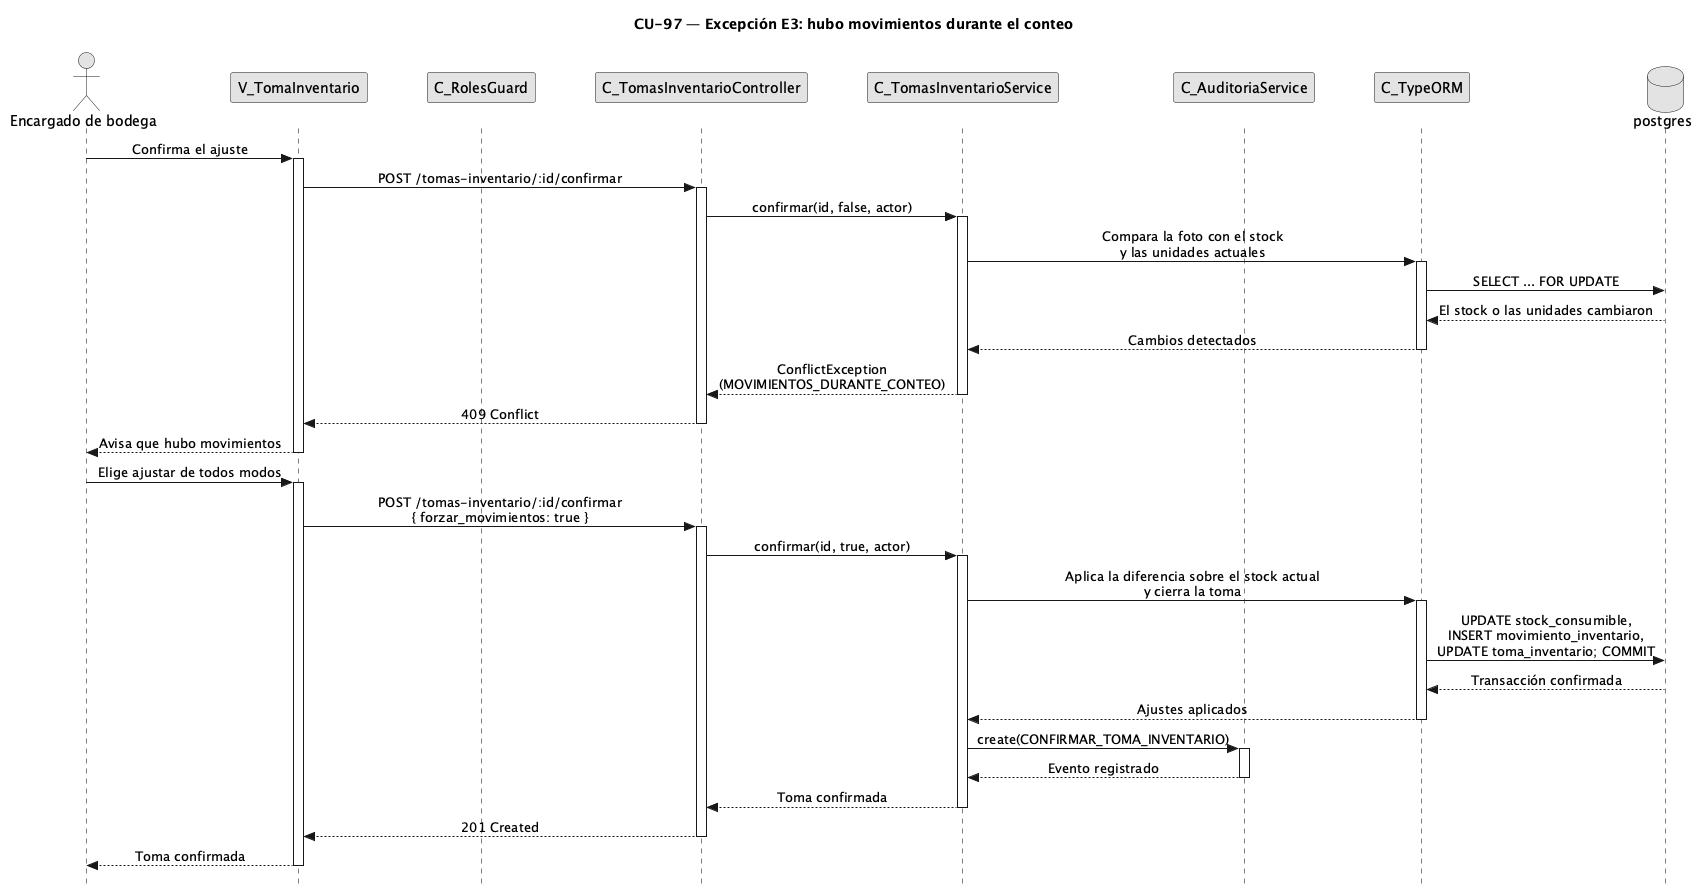
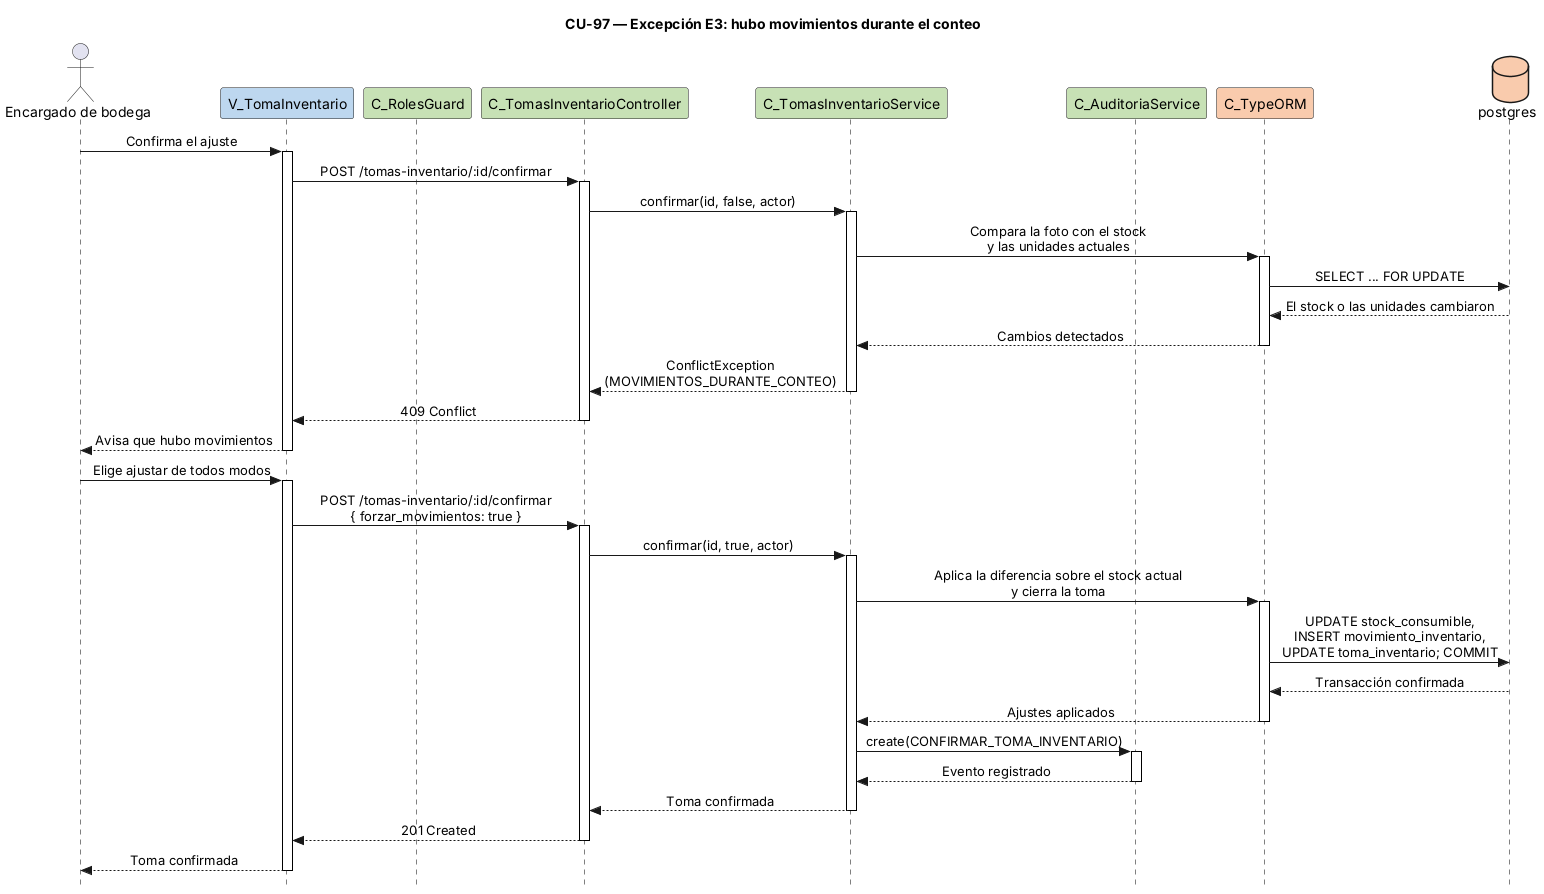
feat(CU-99): acta PDF de la toma de inventario

diff --git a/codigo/backend-inventario/src/tomas-inventario/tomas-inventario.service.ts b/codigo/backend-inventario/src/tomas-inventario/tomas-inventario.service.ts
@@ -11,6 +11,13 @@ import { StockConsumible } from '../bodegas/entities/stock-consumible.entity';
 import { TipoEquipo } from '../inventario/entities/tipo-equipo.entity';
 import { UnidadEquipo } from '../inventario/entities/unidad-equipo.entity';
 import { MovimientoInventario } from '../transferencias/entities/movimiento-inventario.entity';
+import { Usuario } from '../usuarios/entities/usuario.entity';
+import { EMPRESAS } from '../companies/companies.service';
+import {
+  ColumnaPdf,
+  construirPdfReporte,
+  fechaLegible,
+} from '../reportes/pdf-reporte';
 import { RegistrarConteoDto } from './dto/registrar-conteo.dto';
 import {
   RESULTADO_COINCIDE,
@@ -29,6 +36,16 @@ import {
 
 export const TIPO_MOVIMIENTO_AJUSTE = 'AJUSTE_INVENTARIO';
 const ESTADO_EN_BODEGA = 'En bodega';
+
+// CU-99: columnas del acta. Primero los consumibles y luego las series.
+const COLUMNAS_ACTA: ColumnaPdf[] = [
+  { titulo: 'Tipo de equipo', campo: 'tipo', peso: 2 },
+  { titulo: 'N° de serie', campo: 'serie', peso: 1.6 },
+  { titulo: 'Esperado', campo: 'esperado', peso: 0.8 },
+  { titulo: 'Contado', campo: 'contado', peso: 0.8 },
+  { titulo: 'Diferencia', campo: 'diferencia', peso: 0.8 },
+  { titulo: 'Resultado', campo: 'resultado', peso: 1.2 },
+];
 
 export interface ActorToma {
   id_usuario: number;
@@ -544,5 +561,80 @@ export class TomasInventarioService {
       valor_nuevo: { estado: TOMA_CANCELADA },
     });
     return this.obtener(id, actor);
+  }
+
+  //CU-99: genera el acta en PDF de una toma confirmada (lo esperado, lo contado y las diferencias)
+  async generarActa(
+    id: number,
+    actor: ActorToma,
+  ): Promise<{ archivo: Buffer; nombre: string }> {
+    const toma = await this.obtener(id, actor);
+    // CU-99 Excepción 1: solo una toma confirmada tiene un resultado definitivo
+    if (toma.estado !== TOMA_CONFIRMADA) {
+      throw new ConflictException(
+        'Solo se puede generar el acta de una toma confirmada.',
+      );
+    }
+
+    const [abrio, cerro] = await Promise.all([
+      this.nombreUsuario(toma.id_usuario_apertura),
+      this.nombreUsuario(toma.id_usuario_cierre),
+    ]);
+    const fecha = new Date();
+    const formato = (n: number | null) =>
+      n === null ? '-' : Number.isInteger(n) ? String(n) : n.toFixed(2);
+    const filas = [...toma.consumibles, ...toma.series].map((l) => ({
+      tipo: l.tipo_equipo_nombre ?? '-',
+      serie: l.numero_serie ?? '(consumible)',
+      esperado: formato(l.cantidad_esperada),
+      contado: formato(l.cantidad_contada),
+      diferencia: formato(l.diferencia),
+      resultado: l.resultado ?? '-',
+    }));
+    const archivo = construirPdfReporte({
+      empresa:
+        EMPRESAS.find((e) => e.id === toma.id_empresa)?.nombre ?? 'Empresa',
+      titulo: `Acta de toma de inventario N° ${toma.id_toma}`,
+      filtros: [
+        { etiqueta: 'Bodega', valor: toma.bodega_nombre ?? '-' },
+        {
+          etiqueta: 'Apertura',
+          valor: fechaLegible(new Date(toma.fecha_apertura)),
+        },
+        {
+          etiqueta: 'Confirmación',
+          valor: toma.fecha_cierre
+            ? fechaLegible(new Date(toma.fecha_cierre))
+            : '-',
+        },
+        { etiqueta: 'Abierta por', valor: abrio },
+        { etiqueta: 'Confirmada por', valor: cerro },
+      ],
+      generadoPor: await this.nombreUsuario(actor.id_usuario),
+      fecha,
+      columnas: COLUMNAS_ACTA,
+      filas,
+    });
+
+    await this.auditoriaService.create({
+      id_usuario: actor.id_usuario,
+      accion: 'GENERAR_ACTA_TOMA_INVENTARIO',
+      entidad_afectada: 'toma_inventario',
+      id_entidad_afectada: id,
+      valor_anterior: null,
+      valor_nuevo: { formato: 'PDF', lineas: filas.length },
+    });
+
+    const p = (n: number) => String(n).padStart(2, '0');
+    const marca = `${fecha.getFullYear()}${p(fecha.getMonth() + 1)}${p(fecha.getDate())}`;
+    return { archivo, nombre: `acta-toma-${toma.id_toma}-${marca}.pdf` };
+  }
+
+  private async nombreUsuario(id: number | null): Promise<string> {
+    if (!id) return '-';
+    const usuario = await this.dataSource.manager
+      .findOne(Usuario, { where: { id_usuario: id } })
+      .catch(() => null);
+    return usuario?.nombre_completo ?? `Usuario ${id}`;
   }
 }

diff --git a/codigo/backend-inventario/src/tomas-inventario/tomas-inventario.service.spec.ts b/codigo/backend-inventario/src/tomas-inventario/tomas-inventario.service.spec.ts
@@ -321,3 +321,52 @@ describe('TomasInventarioService (CU-97)', () => {
     );
   });
 });
+
+describe('TomasInventarioService (CU-99)', () => {
+  const confirmada = {
+    id_toma: 1,
+    id_bodega: 3,
+    id_empresa: 1,
+    estado: 'CONFIRMADA',
+    id_usuario_apertura: 7,
+    id_usuario_cierre: 7,
+    fecha_apertura: new Date('2026-11-09T10:00:00'),
+    fecha_cierre: new Date('2026-11-09T12:00:00'),
+  };
+
+  it('genera el acta en PDF de una toma confirmada y la audita', async () => {
+    const { service, auditoria } = crear({
+      toma: confirmada,
+      detalles: [
+        { ...consumible(10, 8), resultado: 'FALTANTE' },
+        { ...serie('SN-5', 1), resultado: 'COINCIDE' },
+      ],
+    });
+    const { archivo, nombre } = await service.generarActa(1, ACTOR);
+    expect(archivo.toString('latin1').startsWith('%PDF')).toBe(true);
+    expect(archivo.toString('latin1')).toContain('SN-5');
+    expect(nombre).toMatch(/^acta-toma-1-\d{8}\.pdf$/);
+    expect(auditoria.create).toHaveBeenCalledWith(
+      expect.objectContaining({
+        accion: 'GENERAR_ACTA_TOMA_INVENTARIO',
+        id_entidad_afectada: 1,
+        valor_nuevo: { formato: 'PDF', lineas: 2 },
+      }),
+    );
+  });
+
+  it('E1: rechaza el acta de una toma abierta', async () => {
+    const { service, auditoria } = crear();
+    await expect(service.generarActa(1, ACTOR)).rejects.toThrow(
+      ConflictException,
+    );
+    expect(auditoria.create).not.toHaveBeenCalled();
+  });
+
+  it('E2: una toma de otra empresa responde 404', async () => {
+    const { service } = crear({ toma: { ...confirmada, id_empresa: 2 } });
+    await expect(service.generarActa(1, ACTOR)).rejects.toThrow(
+      NotFoundException,
+    );
+  });
+});

diff --git a/codigo/frontend/src/routes/tomas-inventario/[id]/+page.svelte b/codigo/frontend/src/routes/tomas-inventario/[id]/+page.svelte
@@ -5,6 +5,7 @@
 	import {
 		cancelarTomaInventario,
 		confirmarTomaInventario,
+		descargarActaToma,
 		esMovimientosDuranteConteo,
 		obtenerTomaInventario,
 		registrarConteoToma
@@ -14,7 +15,7 @@
 	import Button from '$lib/components/Button.svelte';
 	import ConfirmDialog from '$lib/components/ConfirmDialog.svelte';
 	import EmptyState from '$lib/components/EmptyState.svelte';
-	import { ArrowLeft, Save } from '@lucide/svelte';
+	import { ArrowLeft, FileDown, Save } from '@lucide/svelte';
 
 	// CU-97: registro del conteo, revisión de diferencias y confirmación del ajuste
 	let toma = $state<TomaInventario | null>(null);
@@ -135,6 +136,21 @@
 		}
 	}
 
+	// CU-99: acta PDF de la toma confirmada
+	let descargandoActa = $state(false);
+	async function descargarActa() {
+		if (!toma) return;
+		error = '';
+		descargandoActa = true;
+		try {
+			await descargarActaToma(toma.id_toma);
+		} catch (err: unknown) {
+			error = err instanceof Error ? err.message : 'No se pudo generar el acta';
+		} finally {
+			descargandoActa = false;
+		}
+	}
+
 	function textoDiferencia(linea: TomaInventarioLinea): string {
 		if (linea.diferencia === null) return '—';
 		return linea.diferencia > 0 ? `+${linea.diferencia}` : String(linea.diferencia);
@@ -176,6 +192,11 @@
 						</Button>
 						<Button loading={saving} onclick={pedirConfirmacion}>Confirmar y ajustar</Button>
 					</div>
+				{:else if toma.estado === 'CONFIRMADA'}
+					<Button variant="secondary" loading={descargandoActa} onclick={descargarActa}>
+						<FileDown class="h-4 w-4" />
+						Descargar acta PDF
+					</Button>
 				{/if}
 			</div>
 		</div>

diff --git a/codigo/backend-inventario/src/tomas-inventario/tomas-inventario.controller.ts b/codigo/backend-inventario/src/tomas-inventario/tomas-inventario.controller.ts
@@ -7,8 +7,10 @@ import {
   Patch,
   Post,
   Query,
+  Res,
   UseGuards,
 } from '@nestjs/common';
+import type { Response } from 'express';
 import { AuthGuard } from '@nestjs/passport';
 import { CurrentUser } from '../auth/decorators/current-user.decorator';
 import { Roles } from '../auth/decorators/roles.decorator';
@@ -76,5 +78,22 @@ export class TomasInventarioController {
     @CurrentUser() actor: ActorToma,
   ) {
     return this.service.cancelar(id, actor);
+  }
+
+  // CU-99: acta PDF de una toma confirmada
+  @Get(':id/acta')
+  @Roles('ADMIN', 'SUPERUSUARIO', 'ADMIN_BODEGA')
+  async acta(
+    @Param('id', ParseIntPipe) id: number,
+    @CurrentUser() actor: ActorToma,
+    @Res() res: Response,
+  ) {
+    const { archivo, nombre } = await this.service.generarActa(id, actor);
+    res.set({
+      'Content-Type': 'application/pdf',
+      'Content-Disposition': `attachment; filename="${nombre}"`,
+      'Content-Length': archivo.length.toString(),
+    });
+    res.end(archivo);
   }
 }

diff --git a/docs/05-backend/tomas-inventario.md b/docs/05-backend/tomas-inventario.md
@@ -21,6 +21,7 @@ el service; fuera de la empresa la bodega o toma responde 404.
 | PATCH | `/api/tomas-inventario/:id/conteo` | Guarda `consumibles` y `series`; se puede repetir. `series` es la lista completa. |
 | POST | `/api/tomas-inventario/:id/confirmar` | Ajusta el stock y cierra la toma. `forzar_movimientos` confirma tras el aviso E3. |
 | POST | `/api/tomas-inventario/:id/cancelar` | Cancela la toma sin tocar el inventario. |
+| GET | `/api/tomas-inventario/:id/acta` | **CU-99:** descarga el acta PDF de una toma confirmada. |
 
 ## 2. Reglas
 
@@ -41,3 +42,14 @@ el service; fuera de la empresa la bodega o toma responde 404.
 | E1 | La bodega ya tiene una toma abierta | 409. Además lo impide el índice único parcial `uq_toma_abierta_por_bodega`. |
 | E2 | Serie que no estaba en la bodega | Línea `OTRA_UBICACION` o `NO_REGISTRADA`. Una serie de otra empresa se informa como `NO_REGISTRADA`. |
 | E3 | Stock o unidades cambiaron durante el conteo | 409 con `codigo: MOVIMIENTOS_DURANTE_CONTEO`; no ajusta hasta reenviar con `forzar_movimientos: true`. |
+
+## 4. CU-99 — Generando acta de toma de inventario en PDF (RF-73, Incremento 4)
+
+- Reutiliza el generador de PDF de CU-93 (`reportes/pdf-reporte.ts`), sin librerías nuevas.
+- Encabezado: empresa, `Acta de toma de inventario N° {id}`, bodega, fechas de apertura y
+  confirmación, quién abrió y quién confirmó. Tabla: tipo, serie (o «(consumible)»), esperado,
+  contado, diferencia y resultado; primero los consumibles y luego las series.
+- Archivo `acta-toma-{id}-AAAAMMDD.pdf`. Auditoría `GENERAR_ACTA_TOMA_INVENTARIO`.
+- **E1:** la toma está abierta o cancelada → 409 «Solo se puede generar el acta de una toma confirmada.»
+- **E2:** la toma es de otra empresa → 404 (mismo aislamiento que el resto del módulo).
+- Frontend: botón «Descargar acta PDF» en `/tomas-inventario/[id]` cuando la toma está confirmada.

diff --git a/docs/04-frontend/rutas.md b/docs/04-frontend/rutas.md
@@ -280,5 +280,5 @@ CU-97. Lista las tomas y abre una nueva para una bodega activa (`Modal`).
 
 ### `/tomas-inventario/[id]`
 CU-97. Registra lo contado (consumibles por cantidad, series una por línea), muestra las diferencias y
-permite guardar, confirmar o cancelar. Si hubo movimientos durante el conteo (409
+permite guardar, confirmar o cancelar. **CU-99:** con la toma confirmada muestra «Descargar acta PDF». Si hubo movimientos durante el conteo (409
 `MOVIMIENTOS_DURANTE_CONTEO`), avisa y ofrece «Ajustar de todos modos».
